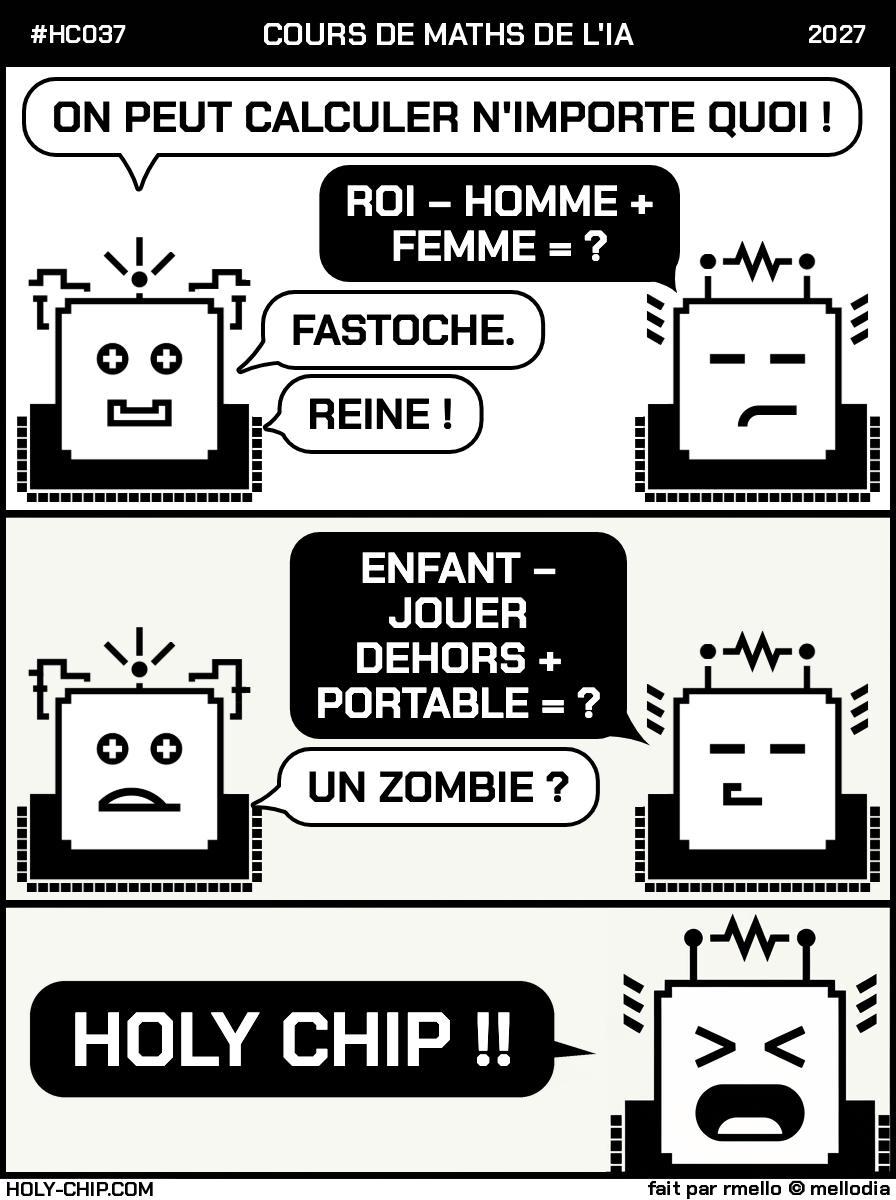
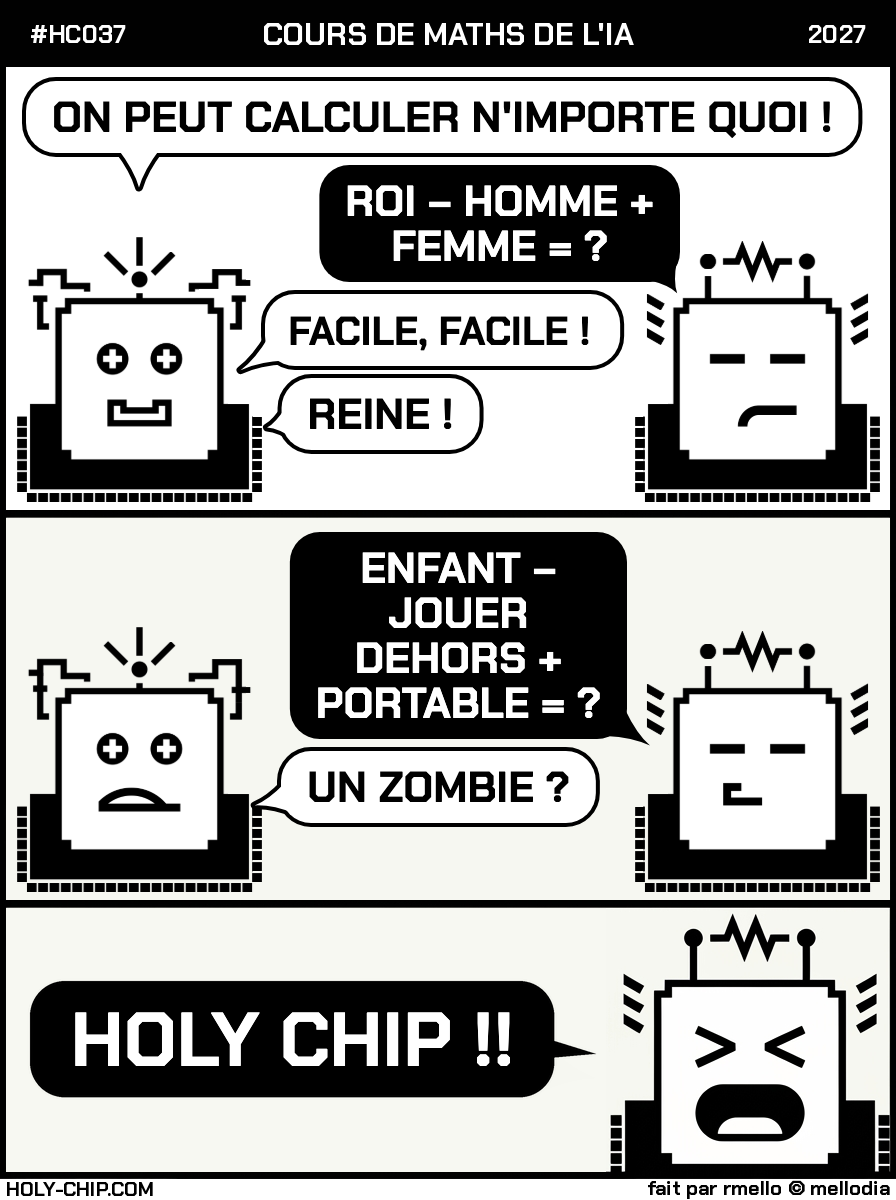
HC037 FR: 'Facile, facile !' (bubble widened)

Changed region(s): [[0.3125, 0.2158, 0.7188, 0.3083]]

diff --git a/origins/HC037.html b/origins/HC037.html
@@ -376,7 +376,7 @@
           </div>
           <div class="dialog-line">
             <span class="dialog-speaker-label">Chip 0</span>
-            <span class="dialog-text">FASTOCHE.</span>
+            <span class="dialog-text">FACILE, FACILE !</span>
           </div>
           <div class="dialog-line">
             <span class="dialog-speaker-label">Chip 0</span>
